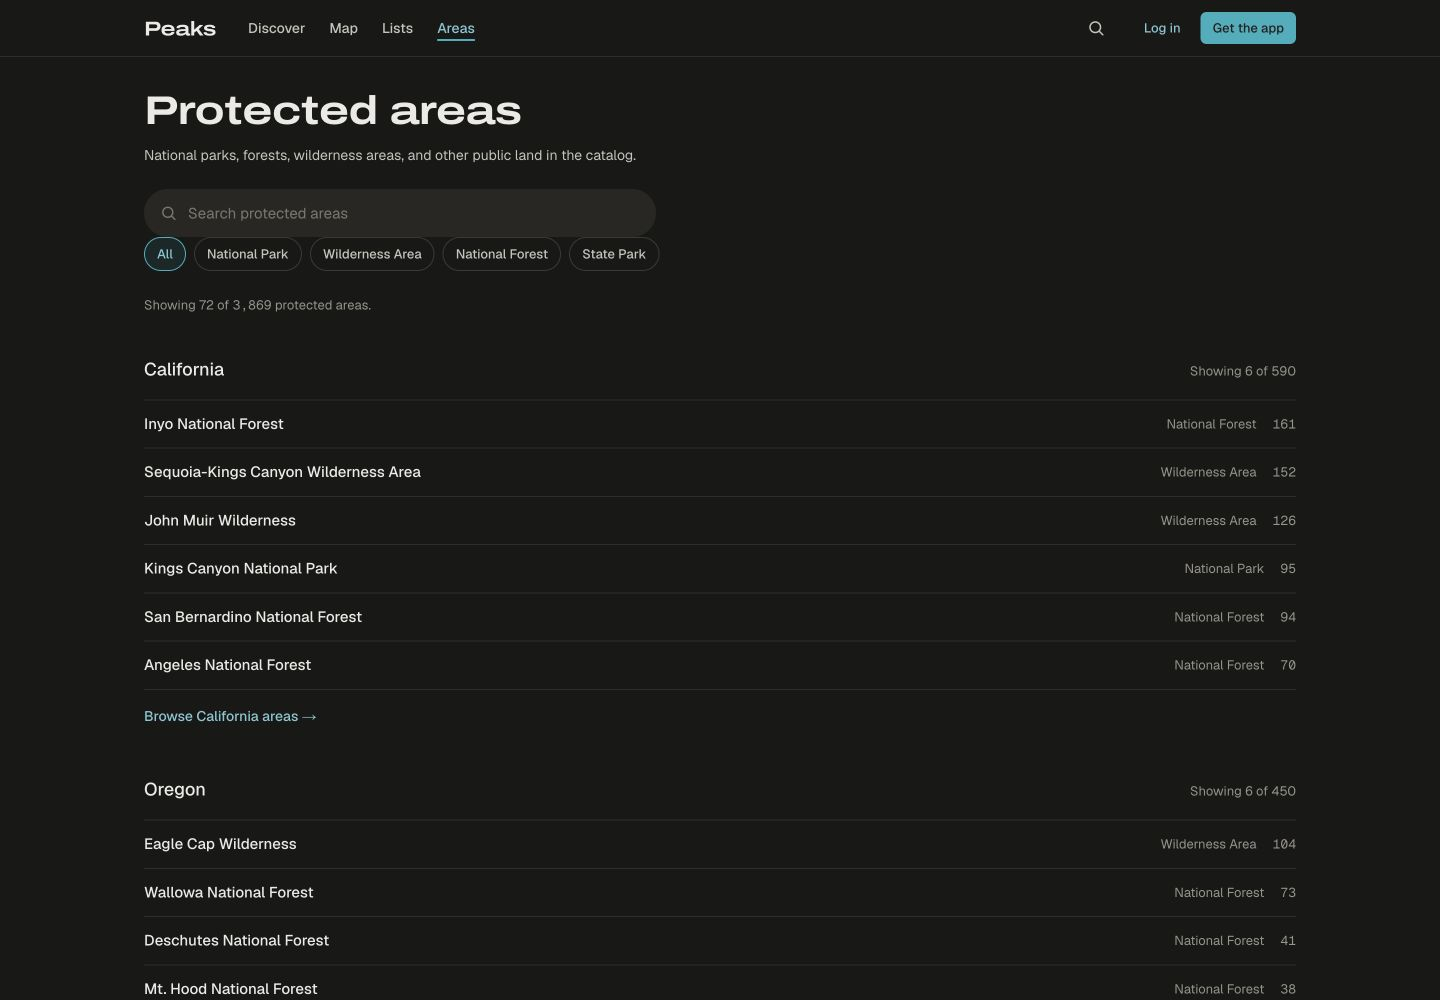
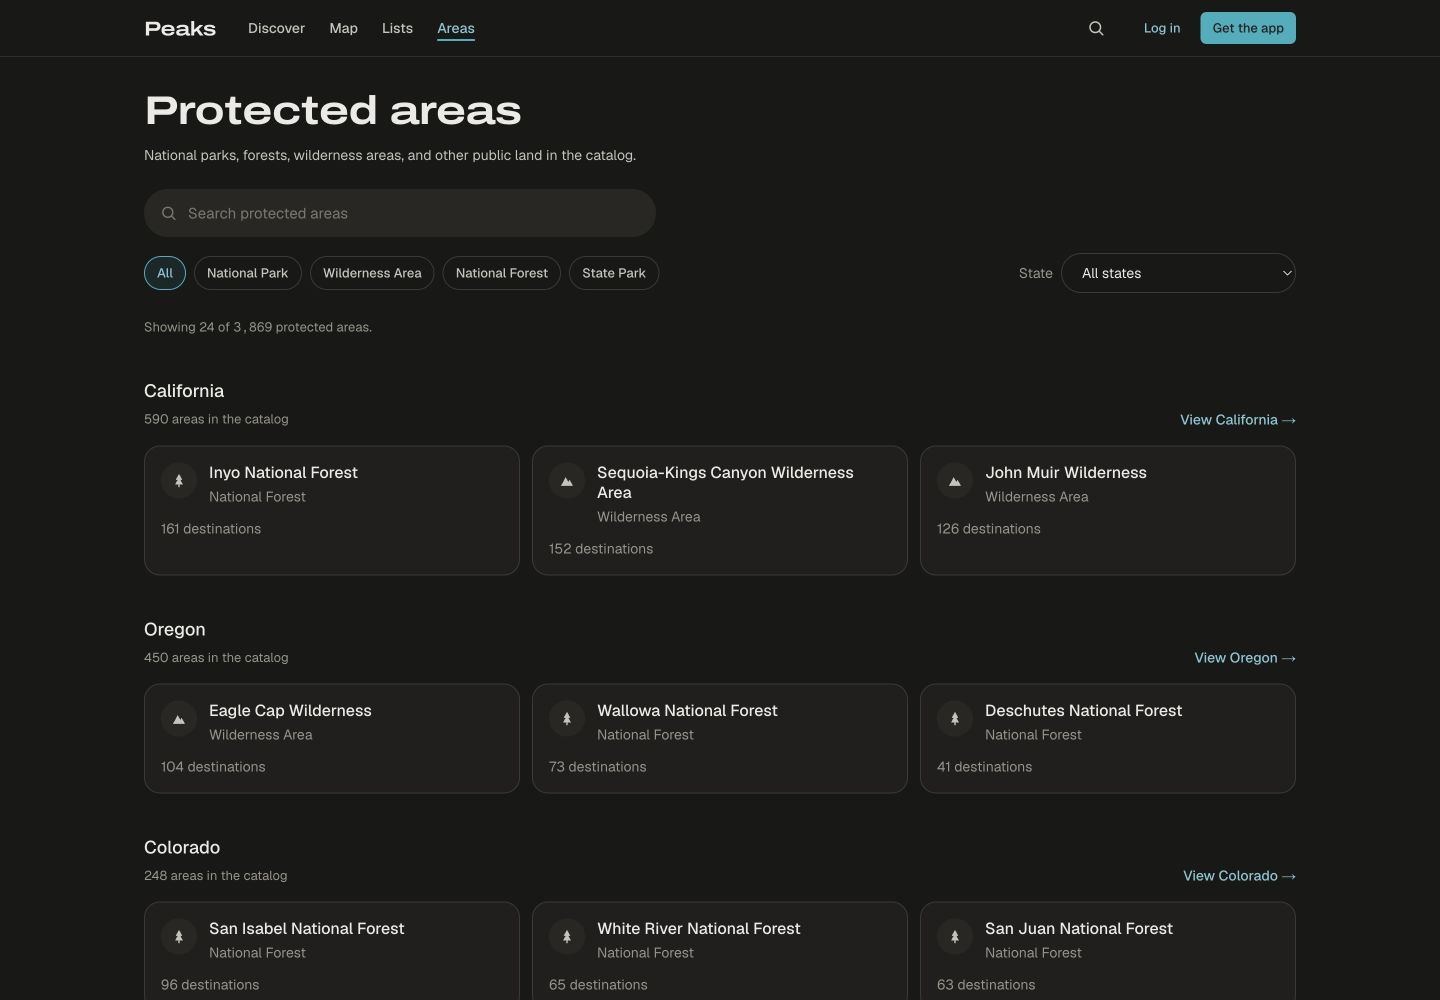
Improve protected area browsing

diff --git a/web/src/app/(public)/areas/page.tsx b/web/src/app/(public)/areas/page.tsx
@@ -11,6 +11,8 @@ import { absoluteUrl, siteConfig } from "../../../lib/seo";
 import { PageHeader } from "../../../components/ui/page-header";
 import { SectionHeading } from "../../../components/ui/section-heading";
 import { AreaDesignationChips } from "../../../components/area/area-designation-chips";
+import { AreaStateSelect } from "../../../components/area/area-state-select";
+import { AreaCard } from "../../../components/area-card";
 import SearchBar from "../../../components/search-bar";
 
 // This page reads `searchParams` (the search box and designation chips are
@@ -64,8 +66,8 @@ export default async function AreasIndexPage({
     search,
     designation,
     stateCode,
-    statesLimit: stateCode ? 1 : 12,
-    perStateLimit: stateCode ? 100 : isFiltered ? 25 : 6,
+    statesLimit: stateCode ? 1 : isFiltered ? 12 : 8,
+    perStateLimit: stateCode ? 24 : isFiltered ? 6 : 3,
   });
 
   const areasByState = new Map<string, typeof areas>();
@@ -95,11 +97,14 @@ export default async function AreasIndexPage({
         }
       />
 
-      <Suspense fallback={<div className="mt-6 h-[84px]" />}>
+      <Suspense fallback={<div className="mt-6 h-[104px]" />}>
         <div className="mt-6 max-w-lg">
           <SearchBar placeholder="Search protected areas" />
         </div>
-        <AreaDesignationChips />
+        <div className="mt-4 flex flex-col gap-4 sm:flex-row sm:items-center sm:justify-between">
+          <AreaDesignationChips />
+          <AreaStateSelect />
+        </div>
       </Suspense>
 
       <p className="mt-6 text-[13px] text-muted">
@@ -129,7 +134,7 @@ export default async function AreasIndexPage({
           No protected areas match {search ? `"${search}"` : "this filter"}.
         </p>
       ) : (
-        <div className="mt-10 space-y-12">
+        <div className="mt-10 space-y-10">
           {states.map((state) => {
             const stateAreas = areasByState.get(state.code) ?? [];
             if (stateAreas.length === 0) return null;
@@ -137,52 +142,45 @@ export default async function AreasIndexPage({
 
             return (
               <section key={state.code} aria-labelledby={`area-state-${state.code}`}>
-                <div className="flex items-baseline justify-between gap-4">
-                  <SectionHeading>
-                    <span id={`area-state-${state.code}`}>{stateLabel}</span>
-                  </SectionHeading>
-                  <span className="text-[13px] text-muted">
-                    {stateAreas.length < state.count
-                      ? `Showing ${stateAreas.length.toLocaleString("en-US")} of ${state.count.toLocaleString("en-US")}`
-                      : `${state.count.toLocaleString("en-US")} ${state.count === 1 ? "area" : "areas"}`}
-                  </span>
+                <div className="flex items-end justify-between gap-4">
+                  <div>
+                    <SectionHeading>
+                      <span id={`area-state-${state.code}`}>{stateLabel}</span>
+                    </SectionHeading>
+                    <p className="mt-1 text-[13px] text-muted">
+                      {state.count.toLocaleString("en-US")} {state.count === 1 ? "area" : "areas"} in the catalog
+                    </p>
+                  </div>
+                  {!stateCode && stateAreas.length < state.count ? (
+                    <Link
+                      href={`/areas?state=${encodeURIComponent(state.code)}${
+                        designation ? `&type=${encodeURIComponent(designation)}` : ""
+                      }`}
+                      className="shrink-0 text-sm font-medium text-accent-text hover:underline"
+                    >
+                      View {stateLabel} →
+                    </Link>
+                  ) : null}
                 </div>
-                <ul className="mt-4 divide-y divide-hairline border-y border-hairline">
+                <div className="mt-4 grid gap-3 sm:grid-cols-2 lg:grid-cols-3">
                   {stateAreas.map((area) => (
-                    <li key={area.id}>
-                      <Link
-                        href={`/areas/${encodeURIComponent(area.id)}`}
-                        className="group flex items-center justify-between gap-4 py-3"
-                      >
-                        <span className="min-w-0 truncate text-[15px] font-medium text-ink group-hover:underline">
-                          {area.name}
-                        </span>
-                        <span className="flex shrink-0 items-center gap-4 text-[13px] text-muted">
-                          <span>
-                            {describeAreaIndexDesignation(
-                              area.name,
-                              area.designation,
-                              area.kind
-                            )}
-                          </span>
-                          <span className="font-mono-num tabular-nums">
-                            {area.destinationCount.toLocaleString("en-US")}
-                          </span>
-                        </span>
-                      </Link>
-                    </li>
+                    <AreaCard
+                      key={area.id}
+                      area={{
+                        id: area.id,
+                        name: area.name,
+                        kind: area.kind,
+                        designation: area.designation,
+                        destination_count: area.destinationCount,
+                      }}
+                      typeLabel={describeAreaIndexDesignation(
+                        area.name,
+                        area.designation,
+                        area.kind
+                      )}
+                    />
                   ))}
-                </ul>
-                {!stateCode && stateAreas.length < state.count ? (
-                  <Link
-                    href={`/areas?state=${encodeURIComponent(state.code)}${
-                      designation ? `&type=${encodeURIComponent(designation)}` : ""
-                    }`}
-                    className="mt-4 inline-block text-sm font-medium text-accent-text hover:underline"
-                  >
-                    Browse {stateLabel} areas →
-                  </Link>
-                ) : null}
+                </div>
               </section>
             );
           })}

diff --git a/web/src/components/area/area-state-select.tsx b/web/src/components/area/area-state-select.tsx
@@ -1,0 +1,47 @@
+"use client";
+
+import { usePathname, useRouter, useSearchParams } from "next/navigation";
+import { allUsStateCodes, subdivisionName } from "../../lib/regions";
+
+const STATE_OPTIONS = allUsStateCodes()
+  .map((code) => ({ code, name: subdivisionName("US", code) }))
+  .filter((state): state is { code: string; name: string } => state.name !== null);
+
+/** State is part of the index URL, like search and land type. Keeping it in
+ * the URL makes a filtered area page linkable and leaves the other filters
+ * in place when the reader changes state. */
+export function AreaStateSelect() {
+  const router = useRouter();
+  const pathname = usePathname();
+  const searchParams = useSearchParams();
+  const current = (searchParams.get("state") ?? "").toUpperCase();
+
+  function select(stateCode: string) {
+    const params = new URLSearchParams(searchParams.toString());
+    if (stateCode) {
+      params.set("state", stateCode);
+    } else {
+      params.delete("state");
+    }
+    const query = params.toString();
+    router.push(query ? `${pathname}?${query}` : pathname);
+  }
+
+  return (
+    <label className="flex items-center gap-2 text-sm text-muted">
+      <span className="shrink-0">State</span>
+      <select
+        value={STATE_OPTIONS.some((state) => state.code === current) ? current : ""}
+        onChange={(event) => select(event.target.value)}
+        className="h-10 min-w-0 rounded-full border border-border bg-page px-4 pr-9 text-sm text-ink"
+      >
+        <option value="">All states</option>
+        {STATE_OPTIONS.map((state) => (
+          <option key={state.code} value={state.code}>
+            {state.name}
+          </option>
+        ))}
+      </select>
+    </label>
+  );
+}

diff --git a/web/src/components/area-card.tsx b/web/src/components/area-card.tsx
@@ -8,8 +8,15 @@ export interface AreaCardData extends ProtectedArea {
   route_count?: number;
 }
 
-export function AreaCard({ area }: { area: AreaCardData }) {
+export function AreaCard({
+  area,
+  typeLabel,
+}: {
+  area: AreaCardData;
+  typeLabel?: string;
+}) {
   const location = area.state_codes?.join(", ");
+  const displayType = typeLabel ?? areaKindLabel(area.kind);
   const facts = [
     area.destination_count == null
       ? null
@@ -37,7 +44,7 @@ export function AreaCard({ area }: { area: AreaCardData }) {
             {area.name}
           </span>
           <span className="mt-1 block text-sm text-muted">
-            {[areaKindLabel(area.kind), location].filter(Boolean).join(" · ")}
+            {[displayType, location].filter(Boolean).join(" · ")}
           </span>
         </span>
       </div>

diff --git a/web/docs/screenshots/web-touchups-2026-08-23/README.md b/web/docs/screenshots/web-touchups-2026-08-23/README.md
@@ -6,9 +6,11 @@ Captured from this branch's production build with the live catalog.
 
 ![Discover with photographed destination cards](discover-desktop.png)
 
-## Protected areas — shorter state sections and browse paths
+## Protected areas — state filters and clear area cards
 
-![Protected areas grouped into shorter state sections](areas-desktop.png)
+![Protected areas grouped into clear state card sections](areas-desktop.png)
+
+![Protected area filters and cards on mobile](areas-mobile.png)
 
 ## Route detail — one clear stat row
 
